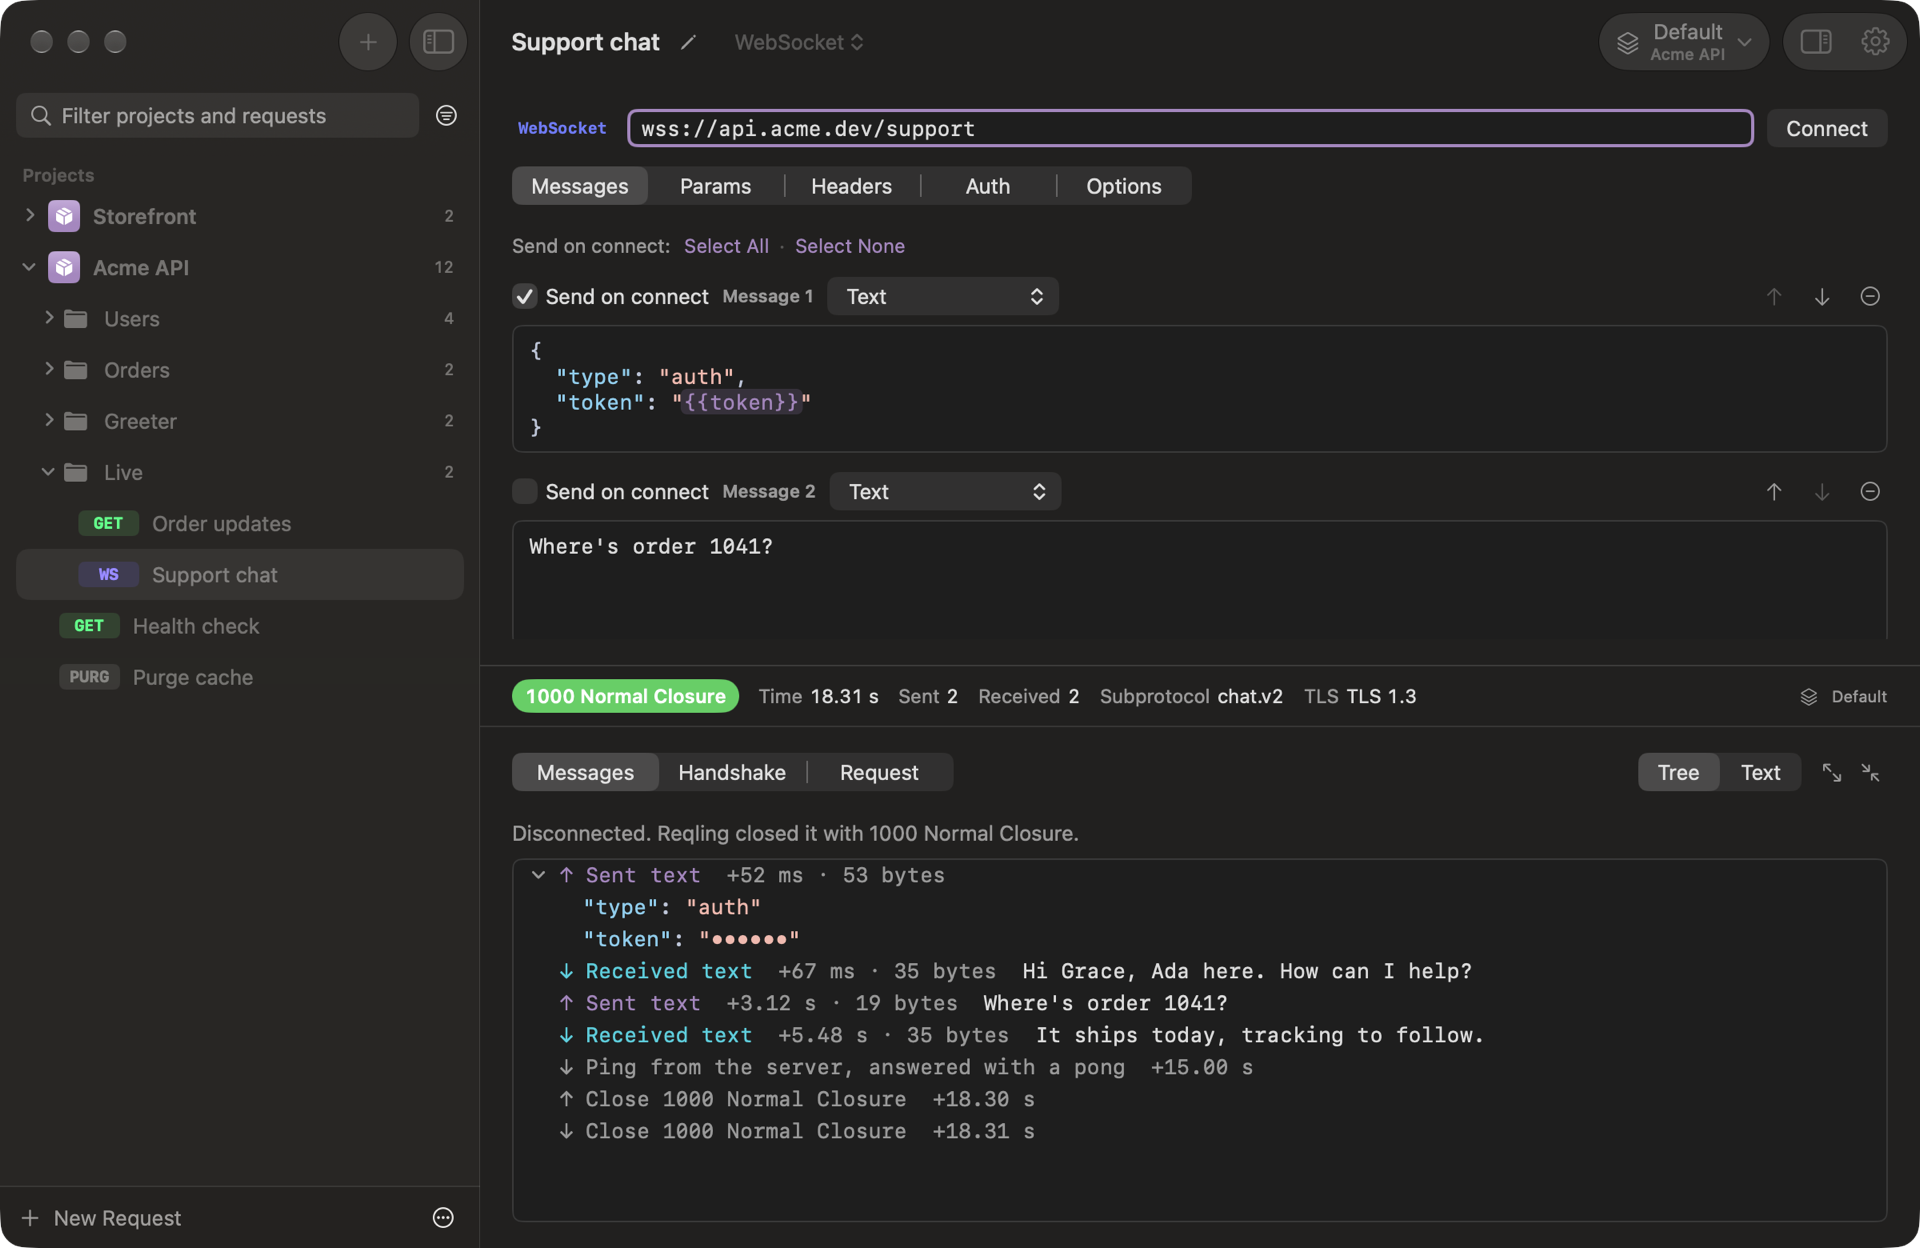
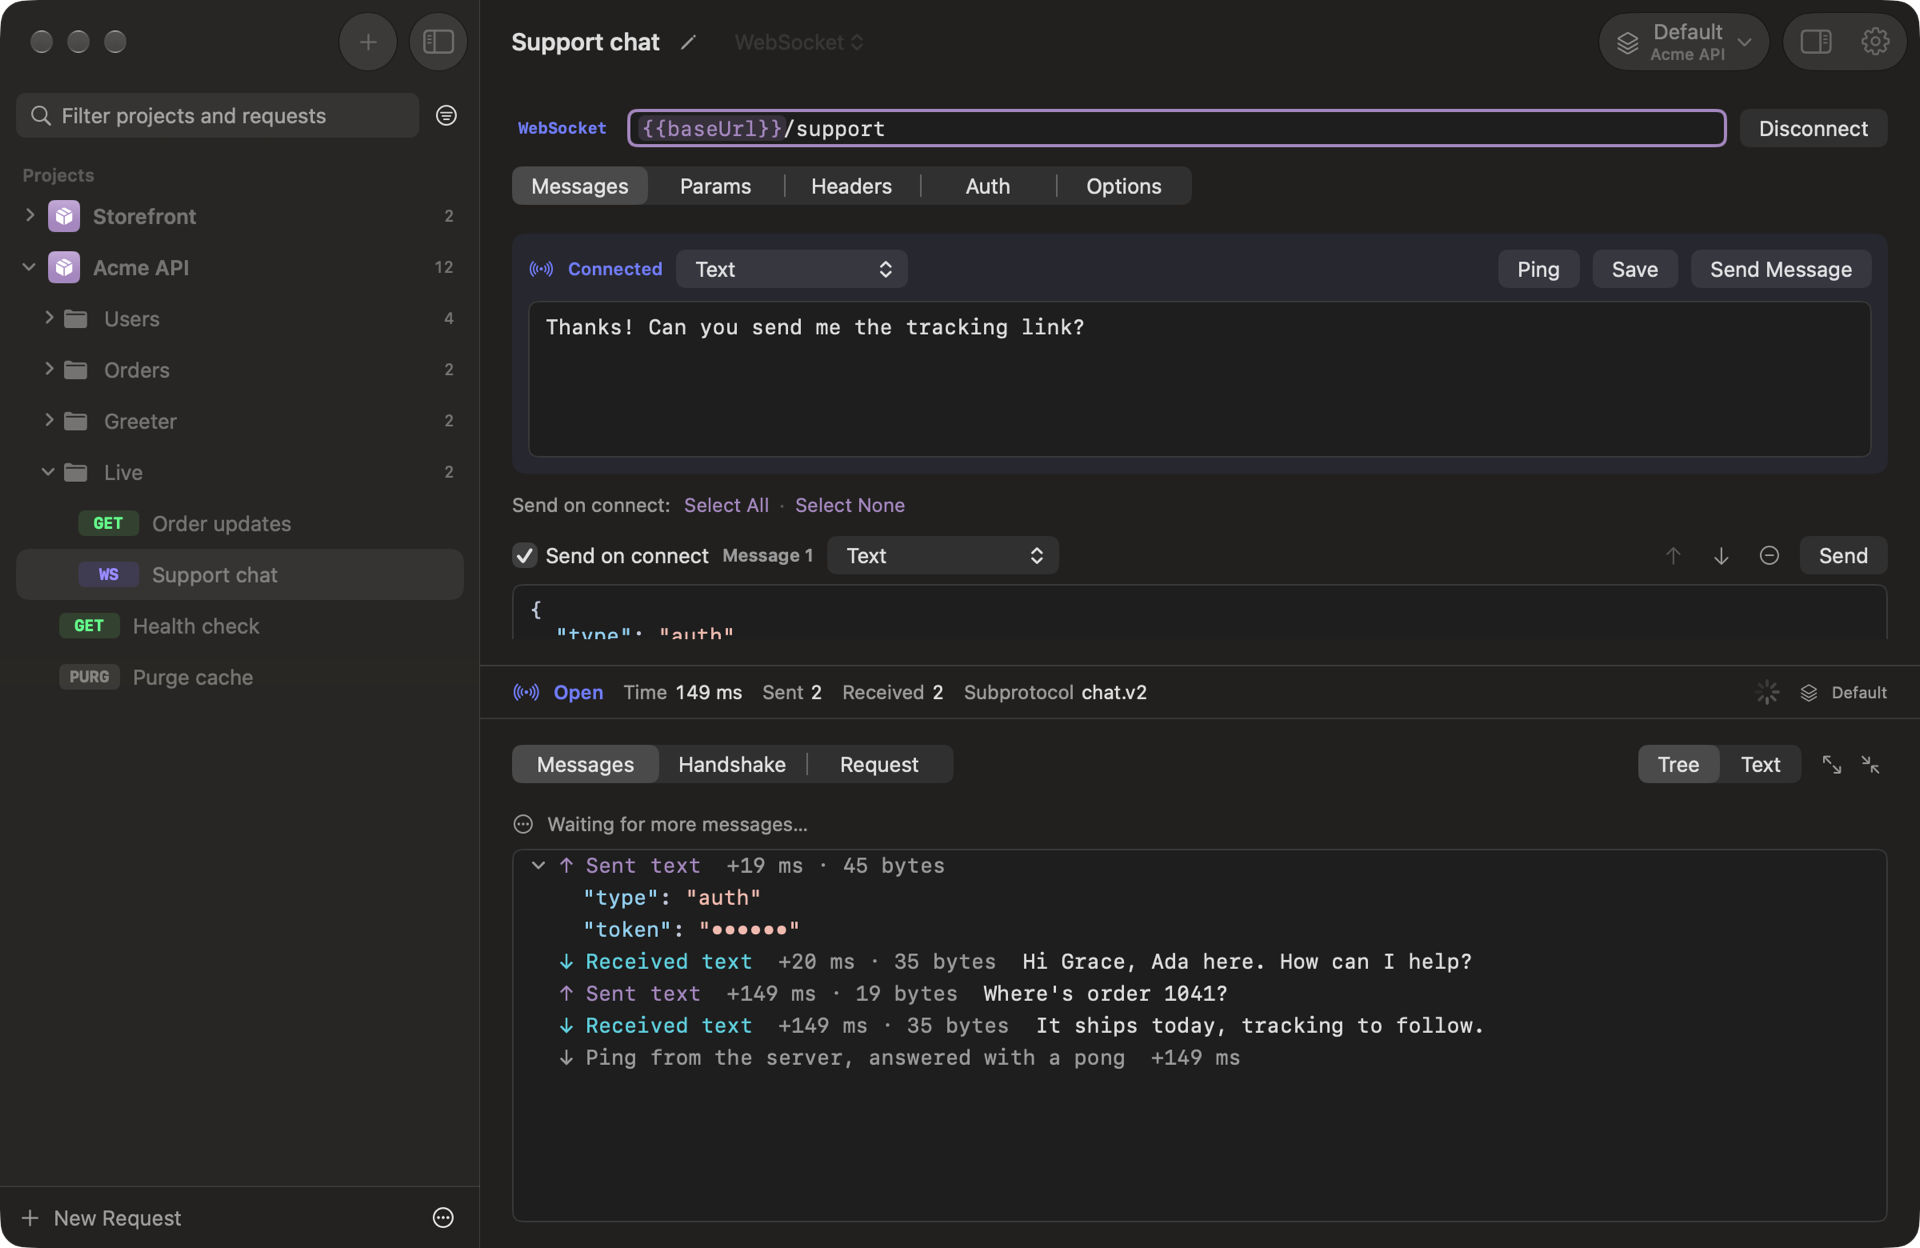
Show a live WebSocket connection
The WebSocket capture now comes from `main`'s live `websocket` scene, showing the composer and each saved message's Send button, and the events capture shows its corrected stream size.

diff --git a/index.html b/index.html
@@ -277,7 +277,7 @@
                 <source srcset="images/websocket-dark.webp" type="image/webp" data-theme="dark"
                     media="(prefers-color-scheme: dark)">
                 <img class="screenshot" src="images/websocket-light.webp"
-                    alt="The Support chat WebSocket request to wss://api.acme.dev/support, with an auth message sending {{token}} on connect and a saved “Where's order 1041?” to send by hand. Below, its connection over the chat.v2 subprotocol closed with 1000 Normal Closure after 18.31 s, its timeline showing the auth message with the token masked, a chat with Ada about order 1041, a ping from the server, and both close frames."
+                    alt="The Support chat WebSocket request, connected to {{baseUrl}}/support over the chat.v2 subprotocol, with “Thanks! Can you send me the tracking link?” drafted in its composer beside Ping, Save, and Send Message, above its saved auth message and that message's Send button. Below, the open connection's timeline: the auth message sent with its token masked, “Hi Grace, Ada here. How can I help?”, “Where's order 1041?”, “It ships today, tracking to follow.”, and a ping from the server, answered with a pong."
                     width="1920" height="1248" loading="lazy" decoding="async">
             </picture>
         </div>
